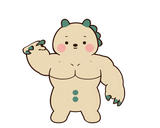
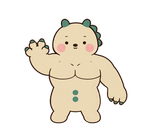
운동기록 프로토타입 v2.07 — 이무 Lv.60 자세 잡기 팔·손 다시 그림(design nijim_imu60_pose_redraw_20261121): sig/imu lv60.webp·lv60_pose.png 교체(내린 손=뭉툭한 손+작은 발톱, 든 손=편 손) · lv60_base·anim.js 값 무변경 · 캐시키 v=2.07 · 되돌릴 곳 97ddd877

Changed region(s): [[0.5938, 0.4062, 0.8125, 0.8438], [0.125, 0.2812, 0.3438, 0.625]]

diff --git a/index.html b/index.html
@@ -5,8 +5,8 @@
 <meta name="viewport" content="width=device-width, initial-scale=1, viewport-fit=cover">
 <title>니짐내짐 운동기록 · 캐릭터 성장 프로토타입</title>
 <link rel="stylesheet" href="https://cdn.jsdelivr.net/gh/orioncactus/pretendard/dist/web/static/pretendard.css">
-<link rel="stylesheet" href="style.css?v=2.06">
-<link rel="stylesheet" href="admin.css?v=2.06">
+<link rel="stylesheet" href="style.css?v=2.07">
+<link rel="stylesheet" href="admin.css?v=2.07">
 </head>
 <body>
 <div class="app" id="app">
@@ -47,32 +47,32 @@
   <div class="evo-hint" id="evoHint">화면을 탭하면 건너뛰어요</div>
 </div>
 
-<script src="assets/chars.js?v=2.06"></script>
-<script src="assets/anim/anim.js?v=2.06"></script>
-<script src="exercises.js?v=2.06"></script>
-<script src="ex_guide.js?v=2.06"></script>
-<script src="engine.js?v=2.06"></script>
-<script src="config_store.js?v=2.06"></script>
-<script src="admin_shop82.js?v=2.06"></script>
-<script src="assets/food/points.js?v=2.06"></script>
-<script src="eat.js?v=2.06"></script>
-<script src="charanim.js?v=2.06"></script>
-<script src="qr.js?v=2.06"></script>
-<script src="center_machines.js?v=2.06"></script>
-<script src="gymreq.js?v=2.06"></script>
-<script src="item_config.js?v=2.06"></script>
-<script src="equip.js?v=2.06"></script>
-<script src="gear.js?v=2.06"></script>
-<script src="coach_ai.js?v=2.06"></script>
-<script src="app.js?v=2.06"></script>
-<script src="coach_config.js?v=2.06"></script>
-<script src="screens2.js?v=2.06"></script>
-<script src="badges.js?v=2.06"></script>
-<script src="coach_info.js?v=2.06"></script>
-<script src="center_rank.js?v=2.06"></script>
-<script src="ranking.js?v=2.06"></script>
-<script src="share.js?v=2.06"></script>
-<script src="feed.js?v=2.06"></script>
-<script src="admin.js?v=2.06"></script>
+<script src="assets/chars.js?v=2.07"></script>
+<script src="assets/anim/anim.js?v=2.07"></script>
+<script src="exercises.js?v=2.07"></script>
+<script src="ex_guide.js?v=2.07"></script>
+<script src="engine.js?v=2.07"></script>
+<script src="config_store.js?v=2.07"></script>
+<script src="admin_shop82.js?v=2.07"></script>
+<script src="assets/food/points.js?v=2.07"></script>
+<script src="eat.js?v=2.07"></script>
+<script src="charanim.js?v=2.07"></script>
+<script src="qr.js?v=2.07"></script>
+<script src="center_machines.js?v=2.07"></script>
+<script src="gymreq.js?v=2.07"></script>
+<script src="item_config.js?v=2.07"></script>
+<script src="equip.js?v=2.07"></script>
+<script src="gear.js?v=2.07"></script>
+<script src="coach_ai.js?v=2.07"></script>
+<script src="app.js?v=2.07"></script>
+<script src="coach_config.js?v=2.07"></script>
+<script src="screens2.js?v=2.07"></script>
+<script src="badges.js?v=2.07"></script>
+<script src="coach_info.js?v=2.07"></script>
+<script src="center_rank.js?v=2.07"></script>
+<script src="ranking.js?v=2.07"></script>
+<script src="share.js?v=2.07"></script>
+<script src="feed.js?v=2.07"></script>
+<script src="admin.js?v=2.07"></script>
 </body>
 </html>

diff --git a/app.js b/app.js
@@ -2,7 +2,7 @@
 /* v1.12 — v1.11(C안 1/4 고객 앱 기록 흐름 전부) + 결정 33: 아이템 경험치는 한도 없음(운동 경험치만 하루 600·주 1,800).
    경험치·레벨·표정·랭킹 계산은 engine.js 한 곳(CFG·sessionXP·capGain·applyXP·judgeIntensity·exprFor·forecastWeek). 이 파일은 화면만 */
 const KEY = 'nijim_workout_proto_v111';
-const VER = 'v2.06';
+const VER = 'v2.07';
 /* 확정 12종(결정 22~25) — design v13 정본 · 레벨 띠 11컷 · 표정 5종. 12종 모두 처음부터 선택 가능(결정 25) */
 const CH = {
   mungchi:   { name: '뭉치', josa: '가', intro: '느긋하고 솔직한 땀방울 슬라임' },
